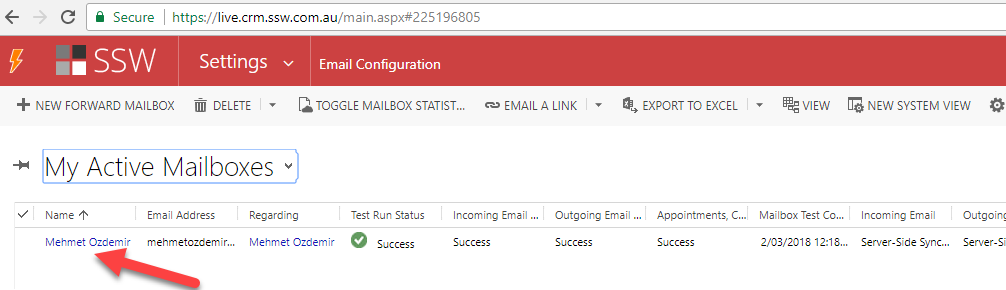
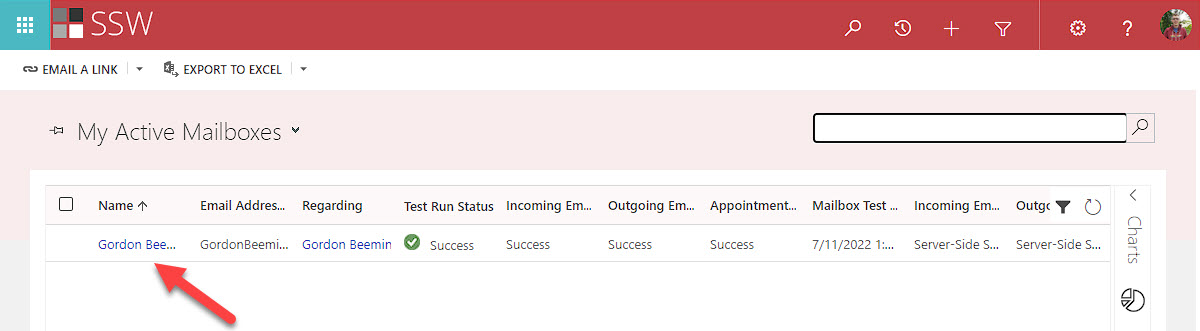
Updating rule to Server Profile as Microsoft Exchange Online
Name change caused inconsistencies with images so replaced them too

diff --git a/rules/set-up-your-mailbox-in-crm/rule.md b/rules/set-up-your-mailbox-in-crm/rule.md
@@ -24,10 +24,10 @@ Do the following:
 
 2. Make sure the following options are set (they might differ a bit depending on your CRM configuration):
 
-   * **Allow to Use Credentials for Email Processing:** checked
+   * **Allow to Use Credentials for Email Processing:** Yes
    * **User Name:** &lt;YourUserName@yourcompany.com&gt;
    * **Password:** &lt;YourPassword&gt;
-   * **Server Profile:** Exchange Online Hybrid
+   * **Server Profile:** Microsoft Exchange Online
    * **Incoming Mail:** Server-Side Synchronization or Email Router
    * **Outgoing Mail:** Server-Side Synchronization or Email Router
    * **Appointments, Contacts, and Tasks:** Server-Side Synchronization
